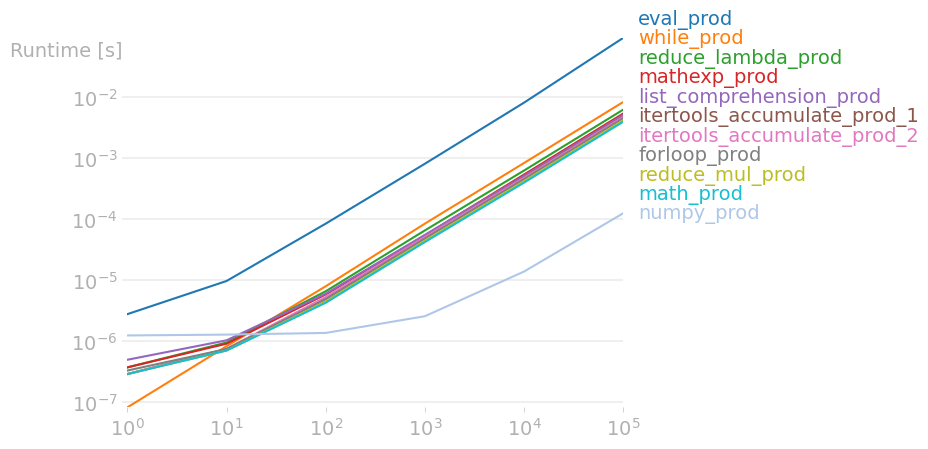
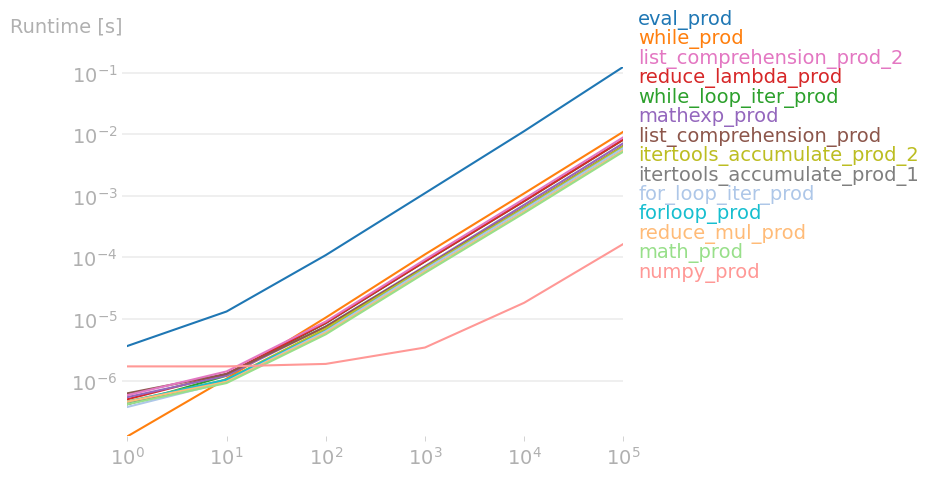
update

diff --git a/product_test.py b/product_test.py
@@ -6,6 +6,8 @@ https://stackoverflow.com/a/55297341/3057377
 # Empty product
 https://en.wikipedia.org/wiki/Empty_product
 
+https://www.geeksforgeeks.org/python-multiply-numbers-list-3-different-ways/
+
 """
 
 import math
@@ -33,7 +35,7 @@ def reduce_mul_prod(lst):
     return ans
 
 
-def forloop_prod(lst):
+def for_loop_prod(lst):
     ans = lst[0] if len(lst) else 1
     for elem in lst[1:]:
         ans *= elem
@@ -78,11 +80,11 @@ def itertools_accumulate_prod_1(lst):
 
 
 def itertools_accumulate_prod_2(lst):
-    *_, ans = accumulate(lst, mul) if len(lst) else 1
+    *_, ans = accumulate(lst, mul) if len(lst) else (None, 1)
     return ans
 
 
-def while_prod(lst):
+def while_loop_prod(lst):
     ans = lst[0] if len(lst) else 1
     i = 1
     imax = len(lst)
@@ -92,7 +94,7 @@ def while_prod(lst):
     return ans
 
 
-def list_comprehension_prod(lst):
+def list_comprehension_prod_1(lst):
     ans = (lambda lst, j=1: [j := i * j for i in lst][-1])(lst) if len(lst) else 1
     return ans
 
@@ -109,31 +111,33 @@ def eval_prod(lst):
 
 if __name__ == "__main__":
     exp_max = 5
-    # Increase recursion limit for `eval_prod()` to work.
+    # Increase the recursion limit for `eval_prod()` to work.
     sys.setrecursionlimit(10**exp_max)
-    b = perfplot.bench(
+    pb = perfplot.bench(
         setup=np.random.rand,
         kernels=[
-            # eval_prod,
-            # while_prod,
-            # while_loop_iter_prod,
-            # reduce_lambda_prod,
-            # mathexp_prod,
-            list_comprehension_prod,
+            eval_prod,
+            while_loop_prod,
             list_comprehension_prod_2,
-            # itertools_accumulate_prod_1,
-            # itertools_accumulate_prod_2,
-            forloop_prod,
+            reduce_lambda_prod,
+            while_loop_iter_prod,
+            mathexp_prod,
+            list_comprehension_prod_1,
+            itertools_accumulate_prod_2,
+            itertools_accumulate_prod_1,
             for_loop_iter_prod,
-            # reduce_mul_prod,
-            # math_prod,
-            # numpy_prod,
+            for_loop_prod,
+            reduce_mul_prod,
+            math_prod,
+            numpy_prod,
         ],
-        n_range=[10**k for k in range(0, exp_max + 1)],
+        # n_range=[10**k for k in range(0, exp_max + 1)],
+        n_range=[0, 1, 2, 5, 10],
     )
-    b.save(
+    pb.save(
         "out.png",
-        logx=True,
+        # logx=True,
+        logx=False,
         logy=True,
     )
-    # b.show()
+    # pb.show()

diff --git a/test.py b/test.py
@@ -1,28 +1,51 @@
+# def gen():
+#     x, y = 1, 2
+#     yield (x, y)
+#     x += 1
+#     yield (x, y)
 
 
+# g = gen()
+# print(next(g))
+# print(next(g))
 
 
+# string = "Yashi"
+# # printing the string in reverse order
+# li = list(string[i] for i in range(len(string) - 1, -1, -1))
+# print(li)
 
 
+# def mul(x, y):
+#     yield (x * y)
 
 
+# lst = range(10)
+# ans = 1
+# for id in range(len(lst) - 1):
+#     next()
 
 
+# *_, last = (x * x for x in range(10))
+
+# from itertools import accumulate
+# from operator import mul
+# lst = [1, 4, 5, 6]
+# lst = []
+# ans = 1 / 0 if len(lst) else 1
+# print(ans)
 
 
+# *_, ans = accumulate(lst, mul) if len(lst) else (None, 1)
+# print(ans)
 
-def list_comprehension_prod(lst):
-    ans = (lambda lst, j=1: [j := i * j for i in lst][-1])(lst) if len(lst) else 1
+def for_loop_iter_prod_2(lst):
+    it = iter(lst)
+    ans = next(it, 1)
+    for _ in range(len(it)):
+        print(ans)
+        ans *= next(it)
     return ans
 
-
-lst = [2, 3, 4, 5]
-
-
-def t(lst):
-    ans = [elem * i for i in lst[1:] for elem in [lst[0]]][-1] if len(lst) else 1
-    return ans
-
-
-print(lst)
-print(t(lst))
+lst = [1,2,3,4,6]
+for_loop_iter_prod_2(lst)

diff --git a/kreficionator.py b/kreficionator.py
@@ -8,10 +8,8 @@ for k in ["k", "c", "ch"]:
                         for i in ["i"]:
                             for on in ["on", "ond", "ont"]:
                                 result = k + r + ai + f + y + s + i + on
-                                for elem in ["ffy", "fy", "tiond", "tiont"]:
-                                    if elem in result:
-                                        break
-                                else:
-                                    result.replace("èff", "eff")
-                                    counter += 1
-                                    print(f"{counter:4d}. {result}")
+                                if any(elem in result for elem in ["ffy", "fy", "tiond", "tiont"]):
+                                    break
+                                result.replace("èff", "eff")
+                                counter += 1
+                                print(f"{counter:4d}. {result}")
